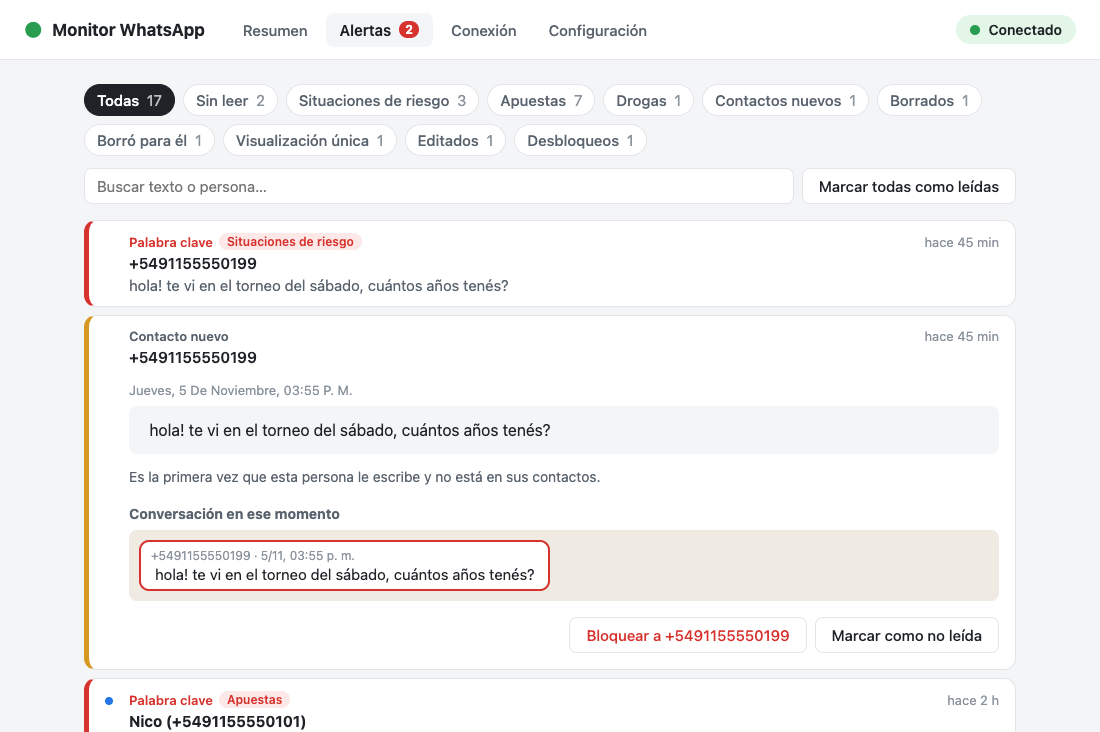
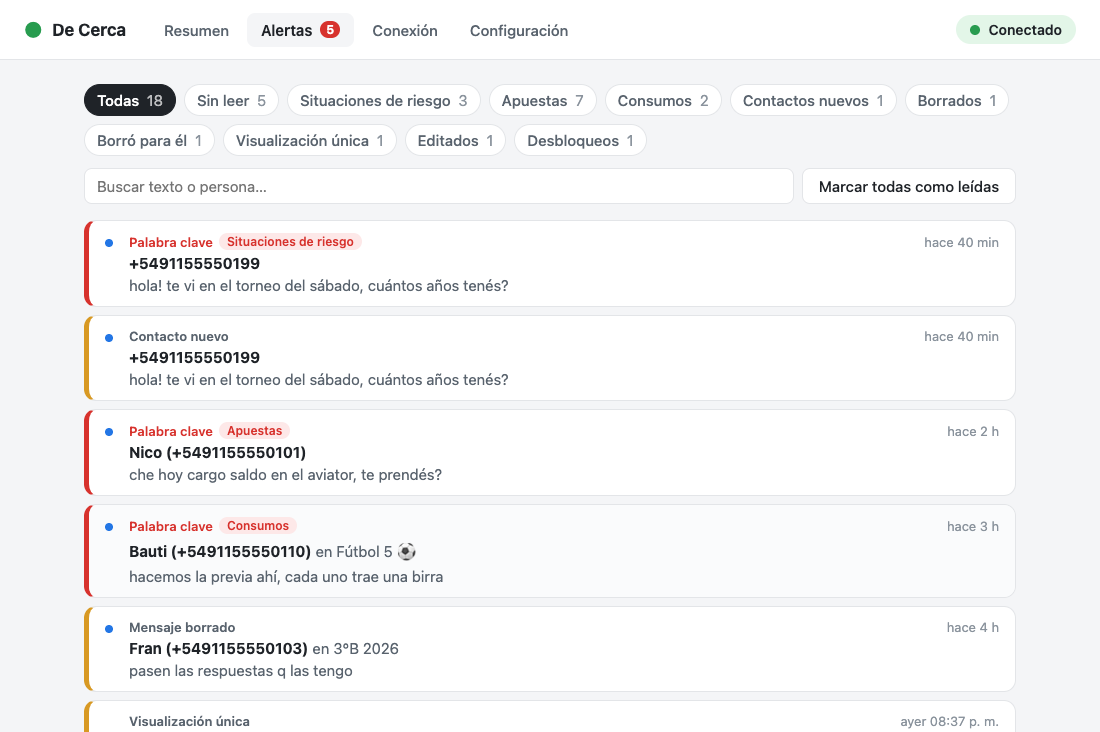
De Cerca 0.3.0: nuevo nombre, historia y capturas

diff --git a/index.html b/index.html
@@ -3,9 +3,9 @@
 <head>
   <meta charset="utf-8" />
   <meta name="viewport" content="width=device-width, initial-scale=1" />
-  <title>Monitor WhatsApp — enterate de lo importante en el WhatsApp de tu hijo</title>
+  <title>De Cerca — enterate de lo importante en el WhatsApp de tu hijo</title>
   <meta name="description" content="App gratuita para Mac y Windows que revisa el WhatsApp de tu hijo y te avisa solo cuando aparece algo para mirar: palabras de riesgo, contactos nuevos, mensajes borrados. Todo queda en tu compu." />
-  <meta property="og:title" content="Monitor WhatsApp" />
+  <meta property="og:title" content="De Cerca" />
   <meta property="og:description" content="Te avisa solo cuando aparece algo para mirar en el WhatsApp de tu hijo. Gratis, para Mac y Windows." />
   <meta property="og:image" content="img/captura-resumen.png" />
   <link rel="icon" href="img/icono.png" />
@@ -16,7 +16,7 @@
     <div class="contenedor barra-interior">
       <a class="marca" href="#">
         <img src="img/icono.png" alt="" width="32" height="32" />
-        Monitor WhatsApp
+        De Cerca
       </a>
       <nav>
         <a href="#que-hace">Qué hace</a>
@@ -40,10 +40,10 @@
             Pensada para usarla <strong>hablándolo con tu hijo</strong>, no a escondidas.
           </p>
           <div class="botones-descarga" data-descargas>
-            <a class="boton primario" data-so="mac" href="https://github.com/aniballujan/monitor-whatsapp-descargas/releases/latest/download/Monitor-WhatsApp-Mac.dmg">
+            <a class="boton primario" data-so="mac" href="https://github.com/aniballujan/monitor-whatsapp-descargas/releases/latest/download/De-Cerca-Mac.dmg">
               Descargar para Mac
             </a>
-            <a class="boton" data-so="windows" href="https://github.com/aniballujan/monitor-whatsapp-descargas/releases/latest/download/Monitor-WhatsApp-Windows.exe">
+            <a class="boton" data-so="windows" href="https://github.com/aniballujan/monitor-whatsapp-descargas/releases/latest/download/De-Cerca-Windows.exe">
               Descargar para Windows
             </a>
           </div>
@@ -51,7 +51,7 @@
             📱 Estás en un celular: la app se instala en una <strong>computadora</strong> (Mac o Windows).
             Abrí esta página desde la compu para descargarla.
           </p>
-          <p class="nota">Versión 0.2.0 · Necesita Google Chrome (en Windows también sirve Edge).</p>
+          <p class="nota">Versión 0.3.0 · Necesita Google Chrome (en Windows también sirve Edge).</p>
         </div>
         <figure class="captura portada-captura">
           <img src="img/captura-resumen.png" alt="Pantalla de resumen de la app: alertas de hoy, actividad y gráfico de las últimas dos semanas" width="1100" height="760" />
@@ -68,7 +68,7 @@
           <li>
             <span class="emoji" aria-hidden="true">⚠</span>
             <h3>Palabras de riesgo</h3>
-            <p>Drogas, apuestas online, pedidos de fotos, "no le digas a nadie"… Vienen listas de fábrica y podés agregar las tuyas.</p>
+            <p>Alcohol, cigarrillos y vapers, drogas, apuestas online, pedidos de fotos, "no le digas a nadie"… Vienen listas de fábrica y podés agregar las tuyas.</p>
           </li>
           <li>
             <span class="emoji" aria-hidden="true">👤</span>
@@ -176,11 +176,18 @@
       </p>
       <p>
         Así que hice lo que sé hacer: automatizar. Armé esta aplicación para que revise por mí todo lo que
-        me preocupaba, sin tener que leer miles de mensajes.
+        me preocupaba, sin tener que leer miles de mensajes ni invadir innecesariamente su vida social.
       </p>
       <p>
-        En casa nos resultó muy efectiva y práctica. Por eso decidimos compartirla, para ayudar a otras
-        familias que están pasando por lo mismo.
+        En casa nos resultó efectiva y práctica. Nos ayudó a detectar de inmediato esas conversaciones que
+        sugieren un peligro para ellos, para poder charlarlo y mirar más de cerca.
+      </p>
+      <p class="lema">
+        La idea es proteger sin perseguir, acompañar sin invadir, estar presentes sin espiar.
+      </p>
+      <p>
+        Queremos ayudar a muchísimas familias que estén pasando por lo mismo. Por eso esta app es gratuita:
+        usala, compartila… y si te sirve, ¡ayudanos a mantenerla activa y actualizada!
       </p>
       <p class="firma">Aníbal Lujan</p>
 
@@ -204,9 +211,9 @@
         <div class="instalar">
           <article class="so" data-so-tarjeta="mac">
             <h3>Mac</h3>
-            <a class="boton primario" href="https://github.com/aniballujan/monitor-whatsapp-descargas/releases/latest/download/Monitor-WhatsApp-Mac.dmg">Descargar para Mac (.dmg)</a>
+            <a class="boton primario" href="https://github.com/aniballujan/monitor-whatsapp-descargas/releases/latest/download/De-Cerca-Mac.dmg">Descargar para Mac (.dmg)</a>
             <ol>
-              <li>Abrí el archivo descargado y arrastrá <strong>Monitor WhatsApp</strong> a <strong>Aplicaciones</strong>.</li>
+              <li>Abrí el archivo descargado y arrastrá <strong>De Cerca</strong> a <strong>Aplicaciones</strong>.</li>
               <li>
                 La primera vez, macOS avisa que es de un "desarrollador no identificado". En Aplicaciones hacé
                 <strong>clic derecho → Abrir → Abrir</strong>. Si no aparece, andá a
@@ -218,7 +225,7 @@
           </article>
           <article class="so" data-so-tarjeta="windows">
             <h3>Windows</h3>
-            <a class="boton primario" href="https://github.com/aniballujan/monitor-whatsapp-descargas/releases/latest/download/Monitor-WhatsApp-Windows.exe">Descargar para Windows (.exe)</a>
+            <a class="boton primario" href="https://github.com/aniballujan/monitor-whatsapp-descargas/releases/latest/download/De-Cerca-Windows.exe">Descargar para Windows (.exe)</a>
             <ol>
               <li>Abrí el archivo descargado.</li>
               <li>
@@ -275,7 +282,7 @@
 
   <footer class="pie">
     <div class="contenedor">
-      <p>Monitor WhatsApp · proyecto personal y gratuito.</p>
+      <p>De Cerca · proyecto personal y gratuito.</p>
       <p class="legal">No está afiliado, asociado ni respaldado por WhatsApp ni por Meta Platforms. WhatsApp es una marca registrada de sus respectivos dueños.</p>
     </div>
   </footer>

diff --git a/estilos.css b/estilos.css
@@ -132,6 +132,7 @@ h1 { font-size: clamp(32px, 4.4vw, 50px); letter-spacing: -0.025em; }
 .historia::backdrop { background: rgba(20, 30, 25, 0.55); backdrop-filter: blur(3px); }
 .historia h2 { font-size: 28px; color: var(--verde-oscuro); margin-bottom: 8px; }
 .historia p { color: var(--texto-2); margin: 14px 0 0; }
+.historia .lema { color: var(--verde-oscuro); font-weight: 600; font-style: italic; border-left: 3px solid var(--verde); padding-left: 14px; }
 .historia .firma { color: var(--texto); font-weight: 600; margin-top: 24px; }
 .historia .cerrar {
   position: absolute; top: 14px; right: 14px; width: 36px; height: 36px; border-radius: 50%;
